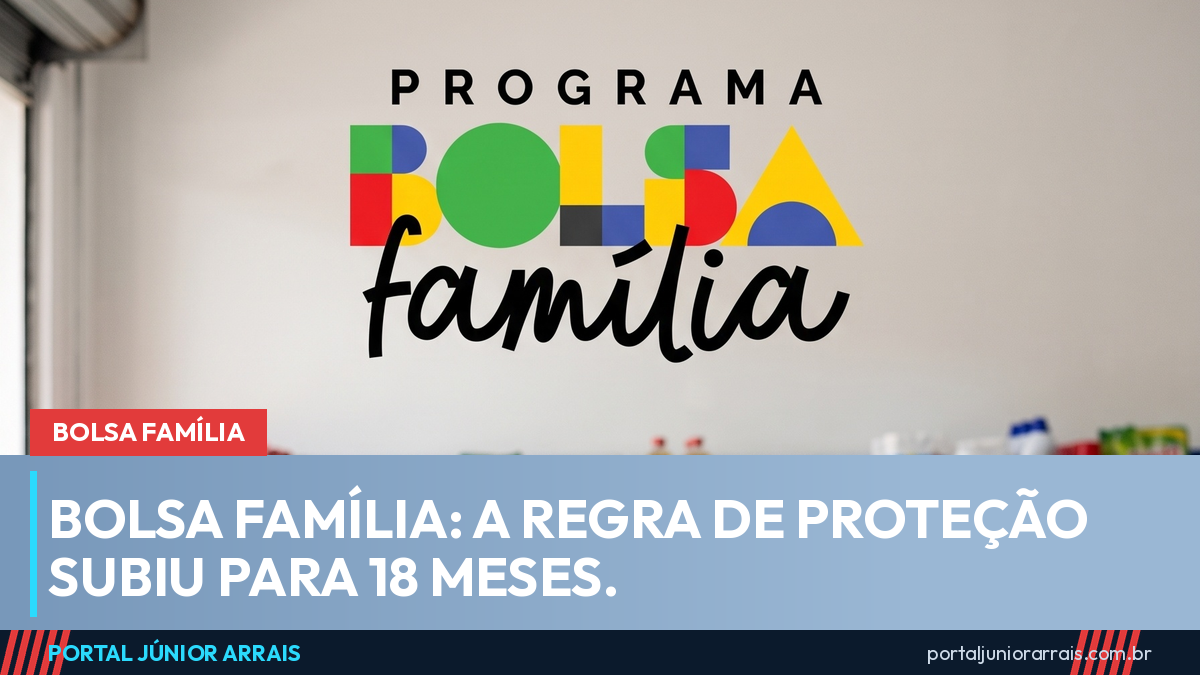
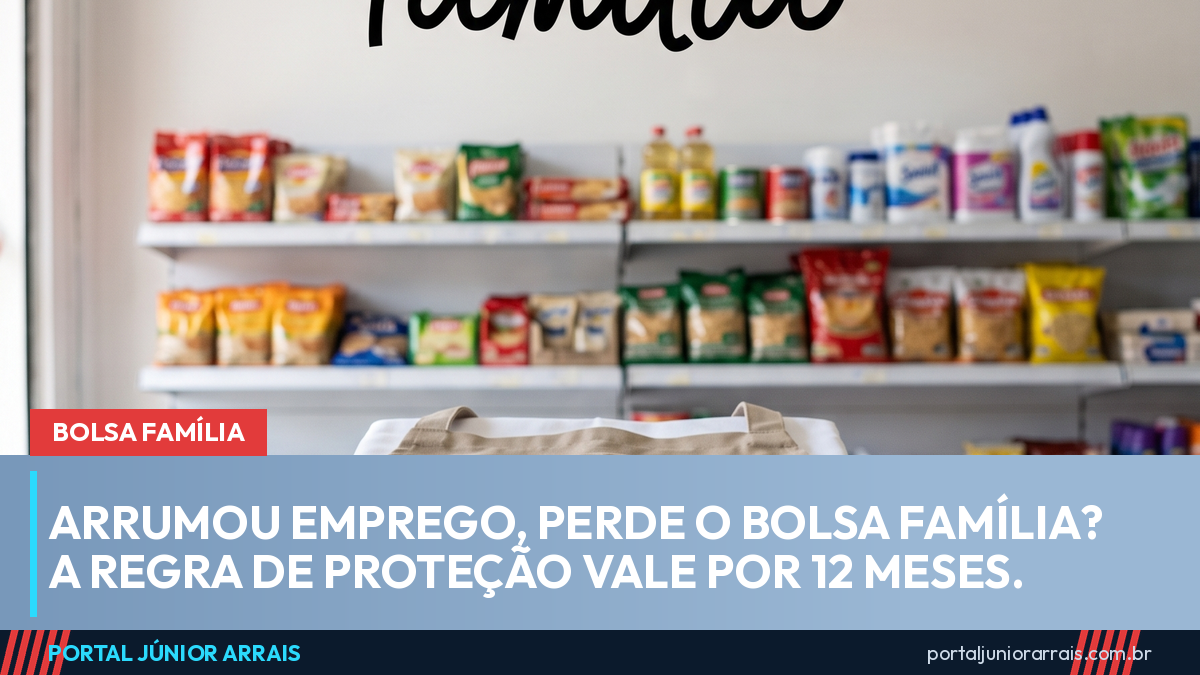
Corrige: regra de proteção do Bolsa Família é de 12 meses (Portaria MDS 1.084/2025)

diff --git a/noticias/bolsa-familia-regra-de-protecao-agora-e-de-18-meses.html b/noticias/bolsa-familia-regra-de-protecao-agora-e-de-18-meses.html
@@ -3,12 +3,12 @@
 <head>
   <meta charset="UTF-8">
   <meta name="viewport" content="width=device-width, initial-scale=1.0">
-  <title>Arrumou emprego, perde o Bolsa Família? A regra de proteção subiu para 18 meses</title>
-  <meta name="description" content="Portaria do MDS elevou de 12 para 18 meses o prazo da regra de proteção do Bolsa Família, com efeito na folha de julho de 2026. A família continua recebendo metade do benefício, desde que a renda por pessoa não passe de R$ 706.">
+  <title>Arrumou emprego, perde o Bolsa Família? A regra de proteção vale por 12 meses</title>
+  <meta name="description" content="A regra de proteção do Bolsa Família garante metade do benefício por até 12 meses para quem aumenta a renda, com teto de R$ 706 por pessoa. Matéria corrigida: não houve mudança para 18 meses.">
   <link rel="canonical" href="https://portaljuniorarrais.com.br/noticias/bolsa-familia-regra-de-protecao-agora-e-de-18-meses.html">
   <meta property="og:type" content="article">
-  <meta property="og:title" content="Arrumou emprego, perde o Bolsa Família? A regra de proteção subiu para 18 meses">
-  <meta property="og:description" content="Portaria do MDS elevou de 12 para 18 meses o prazo da regra de proteção do Bolsa Família, com efeito na folha de julho de 2026. A família continua recebendo metade do benefício, desde que a renda por pessoa não passe de R$ 706.">
+  <meta property="og:title" content="Arrumou emprego, perde o Bolsa Família? A regra de proteção vale por 12 meses">
+  <meta property="og:description" content="A regra de proteção do Bolsa Família garante metade do benefício por até 12 meses para quem aumenta a renda, com teto de R$ 706 por pessoa. Matéria corrigida: não houve mudança para 18 meses.">
   <meta property="og:image" content="https://portaljuniorarrais.com.br/img/bolsa-familia-regra-de-protecao-agora-e-de-18-meses.png">
   <meta property="og:url" content="https://portaljuniorarrais.com.br/noticias/bolsa-familia-regra-de-protecao-agora-e-de-18-meses.html">
   <link rel="preconnect" href="https://fonts.googleapis.com">
@@ -19,8 +19,8 @@
 {
   "@context": "https://schema.org",
   "@type": "NewsArticle",
-  "headline": "Arrumou emprego, perde o Bolsa Família? A regra de proteção subiu para 18 meses",
-  "description": "Portaria do MDS elevou de 12 para 18 meses o prazo da regra de proteção do Bolsa Família, com efeito na folha de julho de 2026. A família continua recebendo metade do benefício, desde que a renda por pessoa não passe de R$ 706.",
+  "headline": "Arrumou emprego, perde o Bolsa Família? A regra de proteção vale por 12 meses",
+  "description": "A regra de proteção do Bolsa Família garante metade do benefício por até 12 meses para quem aumenta a renda, com teto de R$ 706 por pessoa. Matéria corrigida: não houve mudança para 18 meses.",
   "image": [
     "https://portaljuniorarrais.com.br/img/bolsa-familia-regra-de-protecao-agora-e-de-18-meses.png"
   ],
@@ -88,39 +88,36 @@
     <article class="artigo">
       <a class="voltar" href="../">&larr; Voltar para o início</a>
       <div><span class="chip">Bolsa Família</span></div>
-      <h1>Arrumou emprego, perde o Bolsa Família? A regra de proteção subiu para 18 meses</h1>
+      <h1>Arrumou emprego, perde o Bolsa Família? A regra de proteção vale por 12 meses</h1>
       <div class="meta"><img src="../img/junior-avatar.png" alt="Júnior Arrais" class="autor-foto"> Por Júnior Arrais &middot; 24 de ago. de 2026</div>
-      <div class="artigo-capa"><img src="../img/bolsa-familia-regra-de-protecao-agora-e-de-18-meses.png" alt="Arrumou emprego, perde o Bolsa Família? A regra de proteção subiu para 18 meses"></div>
+      <div class="artigo-capa"><img src="../img/bolsa-familia-regra-de-protecao-agora-e-de-18-meses.png" alt="Arrumou emprego, perde o Bolsa Família? A regra de proteção vale por 12 meses"></div>
       <div class="artigo-conteudo">
-<p>O medo de perder o benefício ao assinar a carteira faz muita família recusar trabalho. A regra que existe justamente para evitar isso acabou de melhorar: uma <strong>portaria do Ministério do Desenvolvimento e Assistência Social</strong>, publicada em junho, elevou a <strong>regra de proteção do Bolsa Família de 12 para 18 meses</strong>, com efeito já na folha de <strong>julho de 2026</strong>.</p>
+<p>Quem assina a carteira <strong>não perde o Bolsa Família de uma hora para outra</strong>. A regra de proteção garante que a família continue recebendo <strong>metade do benefício por até 12 meses</strong>, desde que a renda mensal por pessoa <strong>não passe de R$ 706</strong>. É o que prevê a <strong>Portaria MDS nº 1.084/2025</strong>, em vigor desde a folha de pagamento de julho de 2025.</p>
+
+<p><strong>Nota de correção:</strong> a primeira versão desta matéria, publicada em 24/08/2026, afirmou que o prazo teria subido de 12 para 18 meses por uma portaria de junho de 2026. A informação estava errada: <strong>não existe portaria nesse sentido</strong>, e o prazo em vigor para quem entra na regra continua sendo de 12 meses. A confusão nasce de uma divergência do próprio governo — a página do MDS na internet chegou a exibir "18 meses", em desacordo com a norma publicada no Diário Oficial da União. Esta versão já está corrigida.</p>
 
 <h2>Como funciona a regra de proteção</h2>
 
-<p>Se a renda da família passa da linha do programa, ela <strong>não é cortada na hora</strong>. Continua recebendo <strong>metade do valor</strong> a que teria direito, por até <strong>18 meses</strong>, desde que a renda mensal por pessoa <strong>não ultrapasse R$ 706</strong>.</p>
+<p>O limite de renda para entrar e permanecer no programa é de <strong>R$ 218 por pessoa</strong>. Quando a renda da família sobe e passa dessa linha — por causa de um emprego novo, por exemplo —, o benefício <strong>não é cortado na hora</strong>: a família entra na regra de proteção e segue recebendo <strong>50% do valor</strong> a que teria direito.</p>
 
-<p>O teto normal para entrar e permanecer no programa continua sendo de <strong>R$ 218 por pessoa</strong>. A regra de proteção é a faixa entre um valor e outro.</p>
+<p>A condição é que a renda por pessoa fique <strong>entre R$ 218 e R$ 706</strong>. Acima disso, a família sai do programa.</p>
 
-<h2>Atenção às datas: o prazo mudou três vezes</h2>
+<h2>Os prazos mudam conforme a situação</h2>
 
 <ul>
-<li>até <strong>junho de 2025</strong>: 24 meses;</li>
-<li>de <strong>julho de 2025 a junho de 2026</strong>: 12 meses;</li>
-<li>a partir de <strong>julho de 2026</strong>: <strong>18 meses</strong>.</li>
+<li>quem <strong>já estava na regra de proteção até junho de 2025</strong> mantém a regra antiga: até <strong>24 meses</strong>, com teto de <strong>R$ 759</strong> por pessoa;</li>
+<li>quem <strong>entrou a partir da folha de julho de 2025</strong>: até <strong>12 meses</strong>, com teto de R$ 706;</li>
+<li>se a renda que passou da linha vem de <strong>aposentadoria, pensão por morte ou BPC do idoso</strong>, o prazo é de apenas <strong>2 meses</strong>;</li>
+<li>família com <strong>pessoa com deficiência que recebe o BPC</strong>: até <strong>12 meses</strong>.</li>
 </ul>
 
-<p>E há uma <strong>regra de transição</strong>: quem já estava na regra de proteção até junho de 2025 mantém os <strong>24 meses</strong> e o teto de <strong>R$ 759</strong>. Por isso duas famílias vizinhas podem estar em prazos diferentes sem que nenhuma esteja errada.</p>
-
-<h2>A exceção que pega muita gente de surpresa</h2>
-
-<p>Quando a renda que fez a família ultrapassar a linha vem de <strong>pensão por morte, aposentadoria, benefício previdenciário do setor público ou BPC destinado ao idoso</strong>, o prazo da regra de proteção <strong>cai para dois meses</strong> — e não 18.</p>
-
-<p>Isso atinge em cheio quem mora sozinho e passou a receber um benefício previdenciário. Vale saber disso antes, para não ser pego de surpresa.</p>
+<p>Por isso duas famílias vizinhas podem estar em prazos diferentes sem que nenhuma esteja errada: o que define é <strong>quando</strong> cada uma entrou na regra e <strong>de onde</strong> veio o aumento de renda.</p>
 
 <h2>Quem mora sozinho não tem regra própria</h2>
 
-<p>Circula que existiria uma regra especial de "dois anos com metade do valor" para a <strong>família unipessoal</strong>. <strong>Não existe.</strong> A regra de proteção é a mesma para todo mundo: 18 meses, 50%, teto de R$ 706.</p>
+<p>Circula que existiria uma regra especial de "dois anos com metade do valor" para a <strong>família unipessoal</strong>. <strong>Não existe.</strong> O prazo de 24 meses é o da regra antiga, válido para qualquer família que já estava na proteção antes de julho de 2025 — morando sozinha ou não. Quem entra agora segue os prazos da lista acima.</p>
 
-<p>O que de fato é específico de quem mora sozinho está no <strong>cadastro</strong>, não no benefício: a exigência de que inclusões e atualizações de unipessoais fossem feitas por entrevista no domicílio. E aqui vem a boa notícia — essa exigência foi <strong>adiada para 1º de julho de 2027</strong> por portaria publicada em julho de 2026, em razão de acordo judicial firmado com a Defensoria Pública da União. Até lá, a falta da entrevista em casa não pode impedir a manutenção do benefício de quem mora sozinho.</p>
+<p>O que de fato é específico de quem mora sozinho está no <strong>cadastro</strong>, não no benefício: a exigência de que inclusões e atualizações de unipessoais fossem feitas por entrevista no domicílio. Essa exigência foi <strong>adiada para 1º de julho de 2027</strong> por portaria publicada em julho de 2026, em razão de acordo judicial firmado com a Defensoria Pública da União. Até lá, a falta da entrevista em casa não pode impedir a manutenção do benefício de quem mora sozinho.</p>
 
 <h2>O que continua valendo</h2>
 
@@ -137,7 +134,7 @@
 
 <h2>Cuidado com golpe</h2>
 
-<p>Toda mudança de regra vem acompanhada de mensagem prometendo "recadastramento urgente para não perder o benefício", com link, pedido de senha do gov.br ou uma taxa por Pix para "liberar o valor atrasado". <strong>Nenhum órgão do governo cobra taxa, pede senha ou pede foto do cartão para manter o Bolsa Família.</strong> Cadastro e benefício não passam por intermediário.</p>
+<p>Toda notícia sobre mudança de regra vem acompanhada de mensagem prometendo "recadastramento urgente para não perder o benefício", com link, pedido de senha do gov.br ou uma taxa por Pix para "liberar o valor atrasado". <strong>Nenhum órgão do governo cobra taxa, pede senha ou pede foto do cartão para manter o Bolsa Família.</strong> Cadastro e benefício não passam por intermediário.</p>
 
 <p>Se o seu benefício foi bloqueado ou cancelado e você não entendeu o motivo, ou se está na regra de proteção e o valor veio diferente do que deveria, guarde os comprovantes e procure um profissional de sua confiança para analisar a situação — há prazo para pedir revisão.</p>
 
@@ -199,9 +196,9 @@
       <div class="share-bar">
         <span class="share-titulo">Gostou? Compartilhe esta not&iacute;cia:</span>
         <div class="share-botoes">
-          <a class="share-btn share-wa" target="_blank" rel="noopener" href="https://api.whatsapp.com/send?text=Arrumou%20emprego%2C%20perde%20o%20Bolsa%20Fam%C3%ADlia%3F%20A%20regra%20de%20prote%C3%A7%C3%A3o%20subiu%20para%2018%20meses%0A%0Ahttps%3A%2F%2Fportaljuniorarrais.com.br%2Fnoticias%2Fbolsa-familia-regra-de-protecao-agora-e-de-18-meses.html">WhatsApp</a>
+          <a class="share-btn share-wa" target="_blank" rel="noopener" href="https://api.whatsapp.com/send?text=Arrumou%20emprego%2C%20perde%20o%20Bolsa%20Fam%C3%ADlia%3F%20A%20regra%20de%20prote%C3%A7%C3%A3o%20vale%20por%2012%20meses%0A%0Ahttps%3A%2F%2Fportaljuniorarrais.com.br%2Fnoticias%2Fbolsa-familia-regra-de-protecao-agora-e-de-18-meses.html">WhatsApp</a>
           <button class="share-btn share-fb" type="button" onclick="pjaFacebook(this)">Facebook</button>
-          <a class="share-btn share-tg" target="_blank" rel="noopener" href="https://t.me/share/url?url=https%3A%2F%2Fportaljuniorarrais.com.br%2Fnoticias%2Fbolsa-familia-regra-de-protecao-agora-e-de-18-meses.html&amp;text=Arrumou%20emprego%2C%20perde%20o%20Bolsa%20Fam%C3%ADlia%3F%20A%20regra%20de%20prote%C3%A7%C3%A3o%20subiu%20para%2018%20meses">Telegram</a>
+          <a class="share-btn share-tg" target="_blank" rel="noopener" href="https://t.me/share/url?url=https%3A%2F%2Fportaljuniorarrais.com.br%2Fnoticias%2Fbolsa-familia-regra-de-protecao-agora-e-de-18-meses.html&amp;text=Arrumou%20emprego%2C%20perde%20o%20Bolsa%20Fam%C3%ADlia%3F%20A%20regra%20de%20prote%C3%A7%C3%A3o%20vale%20por%2012%20meses">Telegram</a>
           <button class="share-btn share-ig share-arte" type="button" onclick="pjaBaixarArte(this)">Baixar arte 9:16</button>
           <button class="share-btn share-copiar" type="button" onclick="pjaCopiarLink(this)">Copiar link</button>
         </div>

diff --git a/noticias.html b/noticias.html
@@ -77,10 +77,10 @@
         <div class="grid">
           <!-- INÍCIO DO ARQUIVO DE NOTÍCIAS (mais novas primeiro) -->
           <a class="card" href="noticias/bolsa-familia-regra-de-protecao-agora-e-de-18-meses.html">
-            <div class="card-thumb"><img src="img/bolsa-familia-regra-de-protecao-agora-e-de-18-meses.png" alt="Arrumou emprego, perde o Bolsa Família? A regra de proteção subiu para 18 meses"></div>
+            <div class="card-thumb"><img src="img/bolsa-familia-regra-de-protecao-agora-e-de-18-meses.png" alt="Arrumou emprego, perde o Bolsa Família? A regra de proteção vale por 12 meses"></div>
             <div class="card-corpo">
               <span class="chip">Bolsa Família</span>
-              <h3>Arrumou emprego, perde o Bolsa Família? A regra de proteção subiu para 18 meses</h3>
+              <h3>Arrumou emprego, perde o Bolsa Família? A regra de proteção vale por 12 meses</h3>
               <span class="meta">24 de ago. de 2026</span>
             </div>
           </a>

diff --git a/index.html b/index.html
@@ -83,8 +83,8 @@
     <section class="container destaque-3col" id="noticias">
       <div class="col-esq">
         <a class="mini-card grande" href="noticias/bolsa-familia-regra-de-protecao-agora-e-de-18-meses.html">
-          <div class="mini-thumb"><img src="img/bolsa-familia-regra-de-protecao-agora-e-de-18-meses.png" alt="Arrumou emprego, perde o Bolsa Família? A regra de proteção subiu para 18 meses"></div>
-          <h3>Arrumou emprego, perde o Bolsa Família? A regra de proteção subiu para 18 meses</h3>
+          <div class="mini-thumb"><img src="img/bolsa-familia-regra-de-protecao-agora-e-de-18-meses.png" alt="Arrumou emprego, perde o Bolsa Família? A regra de proteção vale por 12 meses"></div>
+          <h3>Arrumou emprego, perde o Bolsa Família? A regra de proteção vale por 12 meses</h3>
           <span class="meta">24 de ago. de 2026</span>
         </a>
         <a class="mini-card grande" href="noticias/restituicao-do-ir-quarto-lote-credito-31-de-agosto.html">

diff --git a/noticias/13-do-bolsa-familia-nao-existe-projeto-parado-cuidado-com-golpes.html b/noticias/13-do-bolsa-familia-nao-existe-projeto-parado-cuidado-com-golpes.html
@@ -159,7 +159,7 @@
               <img class="lt-thumb" src="../img/bolsa-familia-regra-de-protecao-agora-e-de-18-meses.png" alt="" loading="lazy" width="120" height="68">
               <span class="lt-texto">
                 <span class="lt-chip">Bolsa Família</span>
-                <span class="lt-titulo">Arrumou emprego, perde o Bolsa Família? A regra de proteção subiu para 18 meses</span>
+                <span class="lt-titulo">Arrumou emprego, perde o Bolsa Família? A regra de proteção vale por 12 meses</span>
                 <span class="lt-data">24 de ago. de 2026</span>
               </span>
             </a>

diff --git a/noticias/bolsa-familia-agosto-media-671.html b/noticias/bolsa-familia-agosto-media-671.html
@@ -161,7 +161,7 @@
               <img class="lt-thumb" src="../img/bolsa-familia-regra-de-protecao-agora-e-de-18-meses.png" alt="" loading="lazy" width="120" height="68">
               <span class="lt-texto">
                 <span class="lt-chip">Bolsa Família</span>
-                <span class="lt-titulo">Arrumou emprego, perde o Bolsa Família? A regra de proteção subiu para 18 meses</span>
+                <span class="lt-titulo">Arrumou emprego, perde o Bolsa Família? A regra de proteção vale por 12 meses</span>
                 <span class="lt-data">24 de ago. de 2026</span>
               </span>
             </a>

diff --git a/noticias/bolsa-familia-app-mostra-valor-da-parcela-de-agosto.html b/noticias/bolsa-familia-app-mostra-valor-da-parcela-de-agosto.html
@@ -154,7 +154,7 @@
               <img class="lt-thumb" src="../img/bolsa-familia-regra-de-protecao-agora-e-de-18-meses.png" alt="" loading="lazy" width="120" height="68">
               <span class="lt-texto">
                 <span class="lt-chip">Bolsa Família</span>
-                <span class="lt-titulo">Arrumou emprego, perde o Bolsa Família? A regra de proteção subiu para 18 meses</span>
+                <span class="lt-titulo">Arrumou emprego, perde o Bolsa Família? A regra de proteção vale por 12 meses</span>
                 <span class="lt-data">24 de ago. de 2026</span>
               </span>
             </a>

diff --git a/noticias/bolsa-familia-regra-de-protecao.html b/noticias/bolsa-familia-regra-de-protecao.html
@@ -161,7 +161,7 @@
               <img class="lt-thumb" src="../img/bolsa-familia-regra-de-protecao-agora-e-de-18-meses.png" alt="" loading="lazy" width="120" height="68">
               <span class="lt-texto">
                 <span class="lt-chip">Bolsa Família</span>
-                <span class="lt-titulo">Arrumou emprego, perde o Bolsa Família? A regra de proteção subiu para 18 meses</span>
+                <span class="lt-titulo">Arrumou emprego, perde o Bolsa Família? A regra de proteção vale por 12 meses</span>
                 <span class="lt-data">24 de ago. de 2026</span>
               </span>
             </a>
